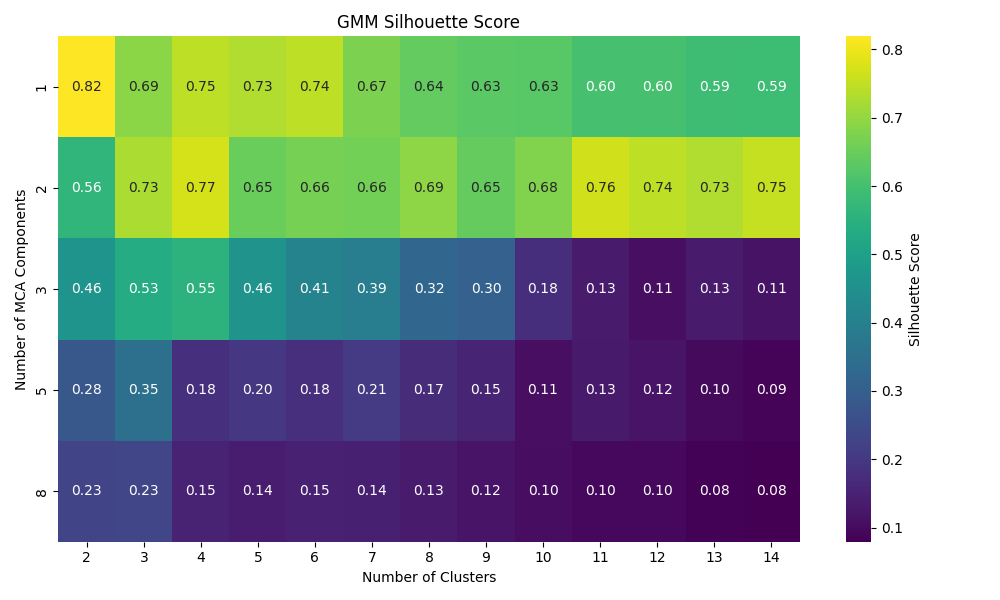
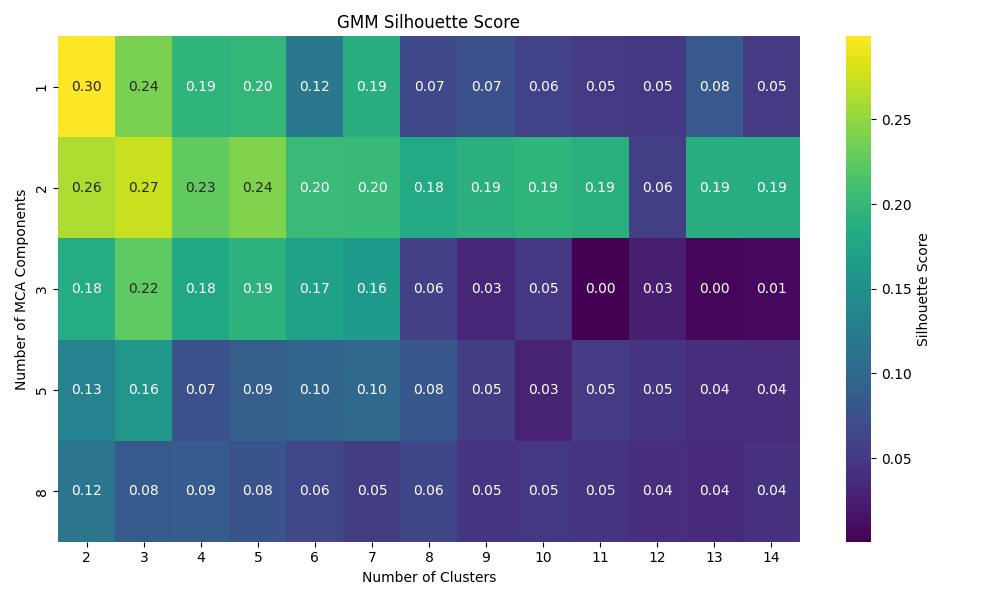
finished CV runs

diff --git a/main.py b/main.py
@@ -1,6 +1,7 @@
 import os
 import numpy as np
 import pandas as pd
+import prince
 import matplotlib.pyplot as plt
 from collections import defaultdict
 import matplotlib.cm as cm
@@ -9,12 +10,13 @@ from sklearn.preprocessing import StandardScaler
 # Import from project modules
 from config import (RANDOM_SEED, NUM_CV_RUNS, CATEGORICAL_COLS, 
                    NUMERICAL_COLS, TARGET_COL, CLUSTER_RANGE, MCA_DIMENSIONS, 
-                   DBSCAN_EPS_RANGE, DBSCAN_MIN_SAMPLES_RANGE, OUTPUT_DIR)
+                   DBSCAN_EPS_RANGE, DBSCAN_MIN_SAMPLES_RANGE, OUTPUT_DIR, NUM_SAMPLES, SAMPLE_SIZE)
 from data_loader import load_data, preprocess_data, apply_mca, combine_features
 from dimensionality import apply_tsne
 from clustering import (kmeans_clustering, hierarchical_clustering, 
                        dbscan_clustering, gmm_clustering, grid_search_kmeans,
-                       grid_search_hierarchical, grid_search_dbscan, grid_search_gmm)
+                       grid_search_hierarchical, grid_search_dbscan, grid_search_gmm,
+                       combine_features)
 from anomaly_detection import (kmeans_anomaly_detection, gmm_anomaly_detection, 
                               one_class_svm_anomaly_detection)
 from evaluation import (calculate_silhouette, calculate_mutual_info, 
@@ -41,24 +43,24 @@ def main():
     print("Running grid search for clustering algorithms...")
     
     # KMeans
-    kmeans_results = grid_search_kmeans(X_cat, CLUSTER_RANGE, MCA_DIMENSIONS)
+    kmeans_results = grid_search_kmeans(X_cat, X_num_scaled, CLUSTER_RANGE, MCA_DIMENSIONS)
     best_kmeans = kmeans_results.loc[kmeans_results['silhouette_score'].idxmax()]
-    print(f"Best KMeans: {int(best_kmeans['n_components'])} components, {int(best_kmeans['n_clusters'])} clusters")
+    print(f"Best KMeans: {int(best_kmeans['n_components'])} components, {int(best_kmeans['n_clusters'])} clusters, cluster counts: {best_kmeans['cluster_counts']}, silhouette: {best_kmeans['silhouette_score']:.4f}")
     
     # Hierarchical
-    hierarchical_results = grid_search_hierarchical(X_cat, CLUSTER_RANGE, MCA_DIMENSIONS)
+    hierarchical_results = grid_search_hierarchical(X_cat, X_num_scaled, CLUSTER_RANGE, MCA_DIMENSIONS)
     best_hierarchical = hierarchical_results.loc[hierarchical_results['silhouette_score'].idxmax()]
-    print(f"Best Hierarchical: {int(best_hierarchical['n_components'])} components, {int(best_hierarchical['n_clusters'])} clusters")
+    print(f"Best Hierarchical: {int(best_hierarchical['n_components'])} components, {int(best_hierarchical['n_clusters'])} clusters, cluster counts: {best_hierarchical['cluster_counts']}, silhouette: {best_hierarchical['silhouette_score']:.4f}")
     
     # DBSCAN
-    dbscan_results = grid_search_dbscan(X_cat, DBSCAN_EPS_RANGE, DBSCAN_MIN_SAMPLES_RANGE, MCA_DIMENSIONS)
+    dbscan_results = grid_search_dbscan(X_cat, X_num_scaled, DBSCAN_EPS_RANGE, DBSCAN_MIN_SAMPLES_RANGE, MCA_DIMENSIONS)
     best_dbscan = dbscan_results.loc[dbscan_results['silhouette_score'].idxmax()]
-    print(f"Best DBSCAN: {int(best_dbscan['n_components'])} components, eps={best_dbscan['eps']:.2f}, min_samples={int(best_dbscan['min_samples'])}")
+    print(f"Best DBSCAN: {int(best_dbscan['n_components'])} components, eps={best_dbscan['eps']:.2f}, min_samples={int(best_dbscan['min_samples'])}, clusters={int(best_dbscan['n_clusters'])}, noise={int(best_dbscan['n_noise'])}, cluster counts: {best_dbscan['cluster_counts']}, silhouette: {best_dbscan['silhouette_score']:.4f}")
     
     # GMM
-    gmm_results = grid_search_gmm(X_cat, CLUSTER_RANGE, MCA_DIMENSIONS)
+    gmm_results = grid_search_gmm(X_cat, X_num_scaled, CLUSTER_RANGE, MCA_DIMENSIONS)
     best_gmm = gmm_results.loc[gmm_results['silhouette_score'].idxmax()]
-    print(f"Best GMM: {int(best_gmm['n_components'])} components, {int(best_gmm['n_clusters'])} clusters")
+    print(f"Best GMM: {int(best_gmm['n_components'])} components, {int(best_gmm['n_clusters'])} clusters, cluster counts: {best_gmm['cluster_counts']}, silhouette: {best_gmm['silhouette_score']:.4f}")
     
     # Save heatmaps for each algorithm
     plot_silhouette_heatmap(kmeans_results, "KMeans Silhouette Score").savefig(
@@ -70,39 +72,63 @@ def main():
     
     # 3. Cross-validation to compare algorithms
     print("Performing cross-validation for algorithm comparison...")
-    
+
     # Store silhouette scores for each algorithm across CV runs
     silhouette_scores = defaultdict(list)
-    
+
     # Track best algorithm across CV runs
-    for cv in range(NUM_CV_RUNS):
+    cv = 0
+    while len(silhouette_scores['dbscan']) < NUM_CV_RUNS:
         print(f"Cross-validation run {cv+1}/{NUM_CV_RUNS}")
         
-        # Apply each algorithm with its best parameters
+        # Randomly sample data for this CV run
+        sample_indices = np.random.choice(NUM_SAMPLES, size=SAMPLE_SIZE, replace=False)
+        X_cat_sample = X_cat.iloc[sample_indices]
+        X_num_scaled_sample = X_num_scaled.iloc[sample_indices]
+        
+        # Apply each algorithm with its best parameters on sampled data
+
+        # DBSCAN
+        # For dbscan we change epsilon to 1 since the sample size is much smaller
+        mca = prince.MCA(n_components=int(best_dbscan['n_components']))
+        dbscan_mca = mca.fit_transform(X_cat_sample)
+        dbscan_X = combine_features(dbscan_mca, X_num_scaled_sample)
+        dbscan_labels, n_clusters, _ = dbscan_clustering(
+            dbscan_X, 1, int(best_dbscan['min_samples']))
+        
+        if n_clusters > 1:
+            # Only calculate silhouette if there's more than one cluster
+            non_noise_mask = dbscan_labels != -1
+            if sum(non_noise_mask) > SAMPLE_SIZE*0.9:
+                silhouette_scores['dbscan'].append(
+                    calculate_silhouette(dbscan_X[non_noise_mask], dbscan_labels[non_noise_mask]))
+            else:
+                continue
+        else:
+            continue
+        
         # KMeans
-        kmeans_mca = apply_mca(X_cat, int(best_kmeans['n_components']))
-        kmeans_X = combine_features(kmeans_mca, X_num_scaled)
+        mca = prince.MCA(n_components=int(best_kmeans['n_components']))
+        kmeans_mca = mca.fit_transform(X_cat_sample)
+        kmeans_X = combine_features(kmeans_mca, X_num_scaled_sample)
         kmeans_labels, _, _ = kmeans_clustering(kmeans_X, int(best_kmeans['n_clusters']))
         silhouette_scores['kmeans'].append(calculate_silhouette(kmeans_X, kmeans_labels))
         
         # Hierarchical
-        hierarchical_mca = apply_mca(X_cat, int(best_hierarchical['n_components']))
-        hierarchical_X = combine_features(hierarchical_mca, X_num_scaled)
+        mca = prince.MCA(n_components=int(best_hierarchical['n_components']))
+        hierarchical_mca = mca.fit_transform(X_cat_sample)
+        hierarchical_X = combine_features(hierarchical_mca, X_num_scaled_sample)
         hierarchical_labels = hierarchical_clustering(hierarchical_X, int(best_hierarchical['n_clusters']))
         silhouette_scores['hierarchical'].append(calculate_silhouette(hierarchical_X, hierarchical_labels))
         
-        # DBSCAN
-        dbscan_mca = apply_mca(X_cat, int(best_dbscan['n_components']))
-        dbscan_X = combine_features(dbscan_mca, X_num_scaled)
-        dbscan_labels, _, _ = dbscan_clustering(dbscan_X, best_dbscan['eps'], int(best_dbscan['min_samples']))
-        if len(set(dbscan_labels)) > 1:
-            silhouette_scores['dbscan'].append(calculate_silhouette(dbscan_X, dbscan_labels))
-        
         # GMM
-        gmm_mca = apply_mca(X_cat, int(best_gmm['n_components']))
-        gmm_X = combine_features(gmm_mca, X_num_scaled)
+        mca = prince.MCA(n_components=int(best_gmm['n_components']))
+        gmm_mca = mca.fit_transform(X_cat_sample)
+        gmm_X = combine_features(gmm_mca, X_num_scaled_sample)
         gmm_labels = gmm_clustering(gmm_X, int(best_gmm['n_clusters']))
         silhouette_scores['gmm'].append(calculate_silhouette(gmm_X, gmm_labels))
+
+        cv += 1
     
     # 4. Statistical tests to compare algorithms
     print("Performing statistical tests...")
@@ -110,6 +136,10 @@ def main():
     # ANOVA test
     f_statistic, p_value = compare_algorithms_anova(silhouette_scores)
     print(f"ANOVA test: F={f_statistic:.4f}, p={p_value:.6f}")
+    if p_value < 0.05:
+        print("At least one algorithm is significantly different from the others.")
+    else:
+        print("No significant difference between algorithms.")
     
     # Find best two algorithms
     algo_means = {algo: np.mean(scores) for algo, scores in silhouette_scores.items()}
@@ -120,38 +150,41 @@ def main():
     t_statistic, t_p_value = compare_best_algorithms_ttest(
         silhouette_scores[best_algo], silhouette_scores[second_best_algo])
     print(f"Paired t-test ({best_algo} vs {second_best_algo}): t={t_statistic:.4f}, p={t_p_value:.6f}")
+    if t_p_value < 0.05:
+        print(f"{best_algo} is significantly better than {second_best_algo}.")
+    else:
+        print(f"No significant difference between {best_algo} and {second_best_algo}.")
     
     # 5. Apply best algorithm and compute elbow method
     best_algo_params = locals()[f"best_{best_algo}"]
     
+    # Create combined features for best algorithm
+    mca = prince.MCA(n_components=int(best_algo_params['n_components']))
+    best_mca = mca.fit_transform(X_cat)
+    X_combined = combine_features(best_mca, X_num_scaled)
+    
     if best_algo == 'dbscan':
-        best_mca = apply_mca(X_cat, int(best_algo_params['n_components']))
-        X_combined = combine_features(best_mca, X_num_scaled)
         labels, n_clusters, n_noise = dbscan_clustering(
             X_combined, best_algo_params['eps'], int(best_algo_params['min_samples']))
     else:
         # Elbow method (only for KMeans)
         if best_algo == 'kmeans':
-            inertia_values = []
-            best_mca = apply_mca(X_cat, int(best_algo_params['n_components']))
-            X_combined = combine_features(best_mca, X_num_scaled)
+            # inertia_values = []
             
-            for n_clusters in CLUSTER_RANGE:
-                _, inertia, _ = kmeans_clustering(X_combined, n_clusters)
-                inertia_values.append(inertia)
+            # for n_clusters in CLUSTER_RANGE:
+            #     _, inertia, _ = kmeans_clustering(X_combined, n_clusters)
+            #     inertia_values.append(inertia)
             
-            optimal_clusters, reduction = find_optimal_clusters(inertia_values, CLUSTER_RANGE)
-            print(f"Optimal clusters (50% reduction): {optimal_clusters}")
+            # optimal_clusters, reduction = find_optimal_clusters(inertia_values, CLUSTER_RANGE)
+            # print(f"Optimal clusters (50% reduction): {optimal_clusters}")
             
-            # Save elbow plot
-            elbow_plot = plot_elbow_method(CLUSTER_RANGE, inertia_values)
-            elbow_plot.savefig(os.path.join(OUTPUT_DIR, 'kmeans_elbow.png'))
+            # # Save elbow plot
+            # elbow_plot = plot_elbow_method(CLUSTER_RANGE, inertia_values)
+            # elbow_plot.savefig(os.path.join(OUTPUT_DIR, 'kmeans_elbow.png'))
             
             # Apply kmeans with optimal clusters
-            labels, _, _ = kmeans_clustering(X_combined, optimal_clusters)
+            labels, _, _ = kmeans_clustering(X_combined, int(best_algo_params['n_clusters']))
         else:
-            best_mca = apply_mca(X_cat, int(best_algo_params['n_components']))
-            X_combined = combine_features(best_mca, X_num_scaled)
             if best_algo == 'hierarchical':
                 labels = hierarchical_clustering(X_combined, int(best_algo_params['n_clusters']))
             else:  # GMM

diff --git a/clustering.py b/clustering.py
@@ -4,6 +4,8 @@ import prince
 from sklearn.cluster import KMeans, AgglomerativeClustering, DBSCAN
 from sklearn.mixture import GaussianMixture
 from sklearn.metrics import silhouette_score
+from sklearn.preprocessing import StandardScaler
+from config import NUM_SAMPLES
 
 def kmeans_clustering(X, n_clusters, random_state=42):
     """Apply KMeans clustering."""
@@ -31,64 +33,108 @@ def gmm_clustering(X, n_components, random_state=42):
     labels = gmm.fit_predict(X)
     return labels
 
-def grid_search_kmeans(X, n_clusters_range, mca_dims):
-    """Perform grid search for KMeans with different clusters and MCA dimensions."""
+def combine_features(X_cat_mca, X_num_scaled):
+    """Combine MCA-transformed categorical features with scaled numerical features."""
+    X_combined = pd.concat([X_cat_mca.reset_index(drop=True), 
+                           pd.DataFrame(X_num_scaled).reset_index(drop=True)], axis=1)
+    # Ensure all column names are strings for compatibility with sklearn
+    X_combined.columns = X_combined.columns.astype(str)
+    # Scale the combined features
+    X_combined = StandardScaler().fit_transform(X_combined)
+    return X_combined
+
+def grid_search_kmeans(X_cat, X_num_scaled, n_clusters_range, mca_dims):
+    """Perform grid search for KMeans with different clusters and MCA dimensions on combined features."""
     results = []
     
     for n_components in mca_dims:
+        # Apply MCA with the current number of components
         mca = prince.MCA(n_components=n_components)
-        df_mca = mca.fit_transform(X)
+        X_cat_mca = mca.fit_transform(X_cat)
+        
+        # Combine with numerical features
+        X_combined = combine_features(X_cat_mca, X_num_scaled)
         
         for n_clusters in n_clusters_range:
-            labels, _, _ = kmeans_clustering(df_mca, n_clusters)
-            sil_score = silhouette_score(df_mca, labels)
-            results.append((n_components, n_clusters, sil_score))
+            # Fit KMeans on combined data
+            labels, inertia, _ = kmeans_clustering(X_combined, n_clusters)
+            cluster_counts = np.bincount(labels)
+            sil_score = silhouette_score(X_combined, labels)
+            results.append((n_components, n_clusters, sil_score, inertia, cluster_counts))
     
-    return pd.DataFrame(results, columns=['n_components', 'n_clusters', 'silhouette_score'])
+    return pd.DataFrame(results, columns=['n_components', 'n_clusters', 'silhouette_score', 'inertia', 'cluster_counts'])
 
-# Similarly implement grid_search functions for other algorithms
-def grid_search_hierarchical(X, n_clusters_range, mca_dims):
-    """Perform grid search for Hierarchical clustering with different clusters and MCA dimensions."""
+def grid_search_hierarchical(X_cat, X_num_scaled, n_clusters_range, mca_dims):
+    """Perform grid search for Hierarchical clustering with different clusters and MCA dimensions on combined features."""
     results = []
     
     for n_components in mca_dims:
+        # Apply MCA with the current number of components
         mca = prince.MCA(n_components=n_components)
-        df_mca = mca.fit_transform(X)
+        X_cat_mca = mca.fit_transform(X_cat)
+        
+        # Combine with numerical features
+        X_combined = combine_features(X_cat_mca, X_num_scaled)
         
         for n_clusters in n_clusters_range:
-            labels = hierarchical_clustering(df_mca, n_clusters)
-            sil_score = silhouette_score(df_mca, labels)
-            results.append((n_components, n_clusters, sil_score))
+            # Fit Hierarchical clustering on combined data
+            labels = hierarchical_clustering(X_combined, n_clusters)
+            cluster_counts = np.bincount(labels)
+            sil_score = silhouette_score(X_combined, labels)
+            results.append((n_components, n_clusters, sil_score, cluster_counts))
     
-    return pd.DataFrame(results, columns=['n_components', 'n_clusters', 'silhouette_score'])
+    return pd.DataFrame(results, columns=['n_components', 'n_clusters', 'silhouette_score', 'cluster_counts'])
 
-def grid_search_dbscan(X, eps_range, min_samples_range, mca_dims):
-    """Perform grid search for DBSCAN with different eps, min_samples and MCA dimensions."""
+def grid_search_dbscan(X_cat, X_num_scaled, eps_range, min_samples_range, mca_dims):
+    """Perform grid search for DBSCAN with different eps, min_samples and MCA dimensions on combined features."""
     results = []
     
     for n_components in mca_dims:
+        # Apply MCA with the current number of components
         mca = prince.MCA(n_components=n_components)
-        df_mca = mca.fit_transform(X)
+        X_cat_mca = mca.fit_transform(X_cat)
+        
+        # Combine with numerical features
+        X_combined = combine_features(X_cat_mca, X_num_scaled)
         
         for eps in eps_range:
             for min_samples in min_samples_range:
-                labels, n_clusters, n_noise = dbscan_clustering(df_mca, eps, min_samples)
-                sil_score = silhouette_score(df_mca, labels) if n_clusters > 1 else -1
-                results.append((n_components, eps, min_samples, n_clusters, n_noise, sil_score))
+                # Fit DBSCAN on combined data
+                labels, n_clusters, n_noise = dbscan_clustering(X_combined, eps, min_samples)
+                cluster_counts = np.bincount(labels[labels != -1])
+                
+                # Only calculate silhouette if there are more than 1 cluster
+                if n_clusters > 1:
+                    # Exclude noise points for silhouette calculation
+                    non_noise_mask = labels != -1
+                    if sum(non_noise_mask) > NUM_SAMPLES*0.9:
+                        sil_score = silhouette_score(X_combined[non_noise_mask], labels[non_noise_mask])
+                    else:
+                        sil_score = -1
+                else:
+                    sil_score = -1
+                
+                results.append((n_components, eps, min_samples, n_clusters, n_noise, sil_score, cluster_counts))
     
-    return pd.DataFrame(results, columns=['n_components', 'eps', 'min_samples', 'n_clusters', 'n_noise', 'silhouette_score'])
+    return pd.DataFrame(results, columns=['n_components', 'eps', 'min_samples', 'n_clusters', 'n_noise', 'silhouette_score', 'cluster_counts'])
 
-def grid_search_gmm(X, n_components_range, mca_dims):
-    """Perform grid search for GMM with different components and MCA dimensions."""
+def grid_search_gmm(X_cat, X_num_scaled, n_components_range, mca_dims):
+    """Perform grid search for GMM with different components and MCA dimensions on combined features."""
     results = []
     
     for n_components in mca_dims:
+        # Apply MCA with the current number of components
         mca = prince.MCA(n_components=n_components)
-        df_mca = mca.fit_transform(X)
+        X_cat_mca = mca.fit_transform(X_cat)
+        
+        # Combine with numerical features
+        X_combined = combine_features(X_cat_mca, X_num_scaled)
         
         for n_clusters in n_components_range:
-            labels = gmm_clustering(df_mca, n_clusters)
-            sil_score = silhouette_score(df_mca, labels)
-            results.append((n_components, n_clusters, sil_score))
+            # Fit GMM on combined data
+            labels = gmm_clustering(X_combined, n_clusters)
+            cluster_counts = np.bincount(labels)
+            sil_score = silhouette_score(X_combined, labels)
+            results.append((n_components, n_clusters, sil_score, cluster_counts))
     
-    return pd.DataFrame(results, columns=['n_components', 'n_clusters', 'silhouette_score'])
+    return pd.DataFrame(results, columns=['n_components', 'n_clusters', 'silhouette_score', 'cluster_counts'])

diff --git a/config.py b/config.py
@@ -5,8 +5,9 @@ RANDOM_SEED = 42
 np.random.seed(RANDOM_SEED)
 
 # Data settings
-NUM_SAMPLES = 5000  # Match actual dataset size
-NUM_CV_RUNS = 10    # Number of cross-validation runs
+NUM_SAMPLES = 5000
+NUM_CV_RUNS = 50    # Number of cross-validation runs
+SAMPLE_SIZE = 1000
 
 # Categorical and numerical column definitions
 CATEGORICAL_COLS = [
@@ -21,7 +22,7 @@ TARGET_COL = 'PULMONARY_DISEASE'
 
 # Clustering parameters
 CLUSTER_RANGE = range(2, 15)
-MCA_DIMENSIONS = [1, 2, 3, 5, 8]  # More appropriate range
+MCA_DIMENSIONS = [1, 2, 3, 5, 8]
 
 # DBSCAN parameters
 DBSCAN_EPS_RANGE = np.linspace(0.3, 0.8, 6)

diff --git a/evaluation.py b/evaluation.py
@@ -1,5 +1,4 @@
 import numpy as np
-import pandas as pd
 from sklearn.metrics import silhouette_score, mutual_info_score
 from scipy import stats
 
